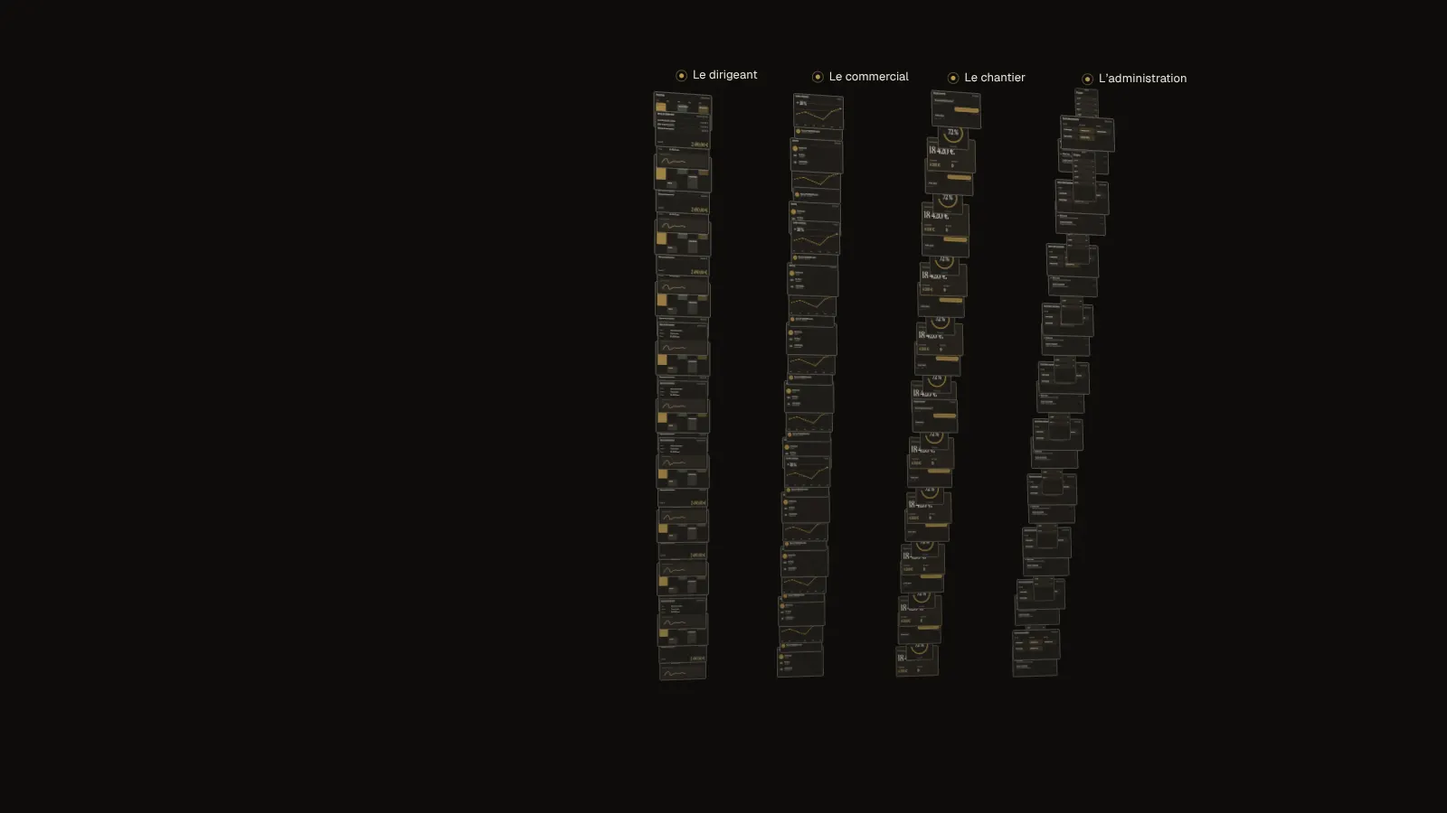
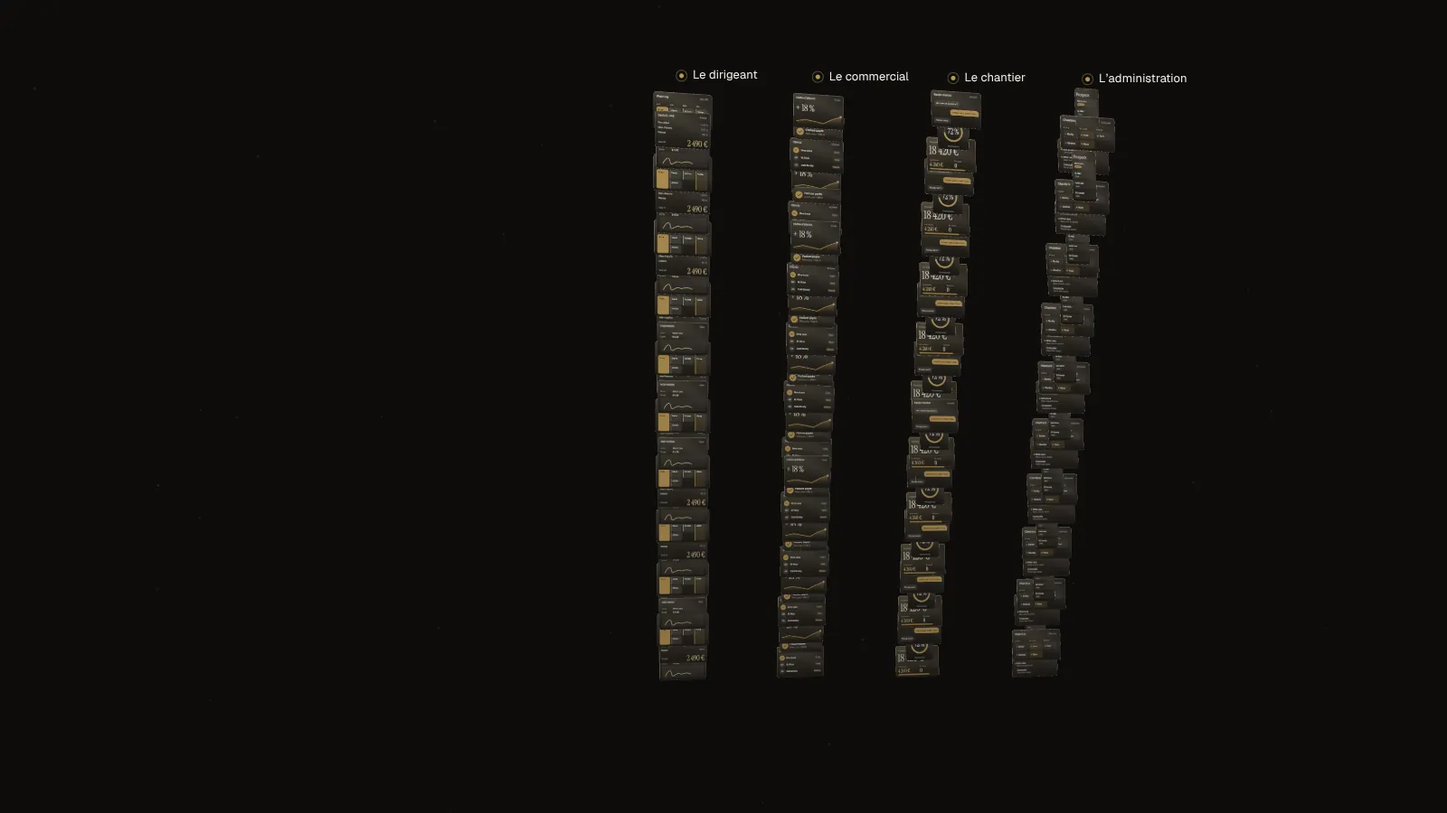
Les cartes de la scène 3D : lisibles, nettes et en matière
Le contenu est redessiné pour la taille réelle d'une carte à l'écran ;
la face se lit un demi-niveau de détail plus fin ; fond en dégradé, arête
éclairée, fine épaisseur et dos au monogramme JD ; éclairage selon
l'orientation, reflet discret, profondeur de champ, poussière d'or et
vignettage. Les images fixes sans 3D sont refaites.

Claude-Session: https://claude.ai/code/session_017eXCrDwx3fyc2Rg5fKE3AL

diff --git a/index.html b/index.html
@@ -87,6 +87,7 @@ img { display: block; max-width: 100%; height: auto; }
 
 /* ── Le monde en 3D, derrière toute la page ── */
 #monde { position: fixed; inset: 0; width: 100%; height: 100%; z-index: 0; display: block; transition: opacity 600ms ease; }
+#monde { -webkit-mask-image: radial-gradient(ellipse 85% 80% at 58% 50%, #000 55%, rgba(0,0,0,0.55) 100%); mask-image: radial-gradient(ellipse 85% 80% at 58% 50%, #000 55%, rgba(0,0,0,0.55) 100%); }
 .etiquettes { position: fixed; inset: 0; z-index: 1; pointer-events: none; }
 .etiquette {
   position: absolute; left: 0; top: 0; white-space: nowrap; font-size: 0.8125rem; font-weight: 400; letter-spacing: 0.01em;
@@ -336,7 +337,7 @@ main, .index-recit { position: relative; z-index: 2; }
 .pied-page { background: var(--nuit-2); padding: 0 var(--marge) 40px; display: flex; flex-wrap: wrap; justify-content: space-between; gap: 16px; font-size: 0.8125rem; color: var(--creme-doux); }
 .pied-page a { text-underline-offset: 0.25em; }
 
-.capture .barre, .capture main, .capture .index-recit, .capture .intro { display: none !important; }
+.capture .barre, .capture main, .capture .pied-page, .capture .index-recit, .capture .intro { display: none !important; }
 </style>
 </head>
 <body>
@@ -700,107 +701,200 @@ if (renderer) {
 
   /* Les fenêtres : sombres, au trait fin, avec de vrais contenus (un exemple fictif, jamais des barres grises) */
   await Promise.all([document.fonts.load('400 30px Geist'), document.fonts.load('500 30px Geist'), document.fonts.load('400 60px "Instrument Serif"')]).catch(() => {});
-  const C = { fond: '#23201b', fond2: '#312d26', trait: 'rgba(242,239,234,0.22)', texte: '#f3ede1', doux: 'rgba(242,239,234,0.66)', pale: 'rgba(242,239,234,0.4)', or: '#b8964f', orClair: '#d6bd85', vert: '#8fb08a' };
+  const C = { fondHaut: '#2f2b24', fondBas: '#1c1915', fond2: 'rgba(242,239,234,0.07)', fond3: 'rgba(242,239,234,0.12)', trait: 'rgba(242,239,234,0.13)', texte: '#f4f0e9', doux: 'rgba(242,239,234,0.64)', pale: 'rgba(242,239,234,0.4)', or: '#c4a05a', orClair: '#dcc48f', orFond: 'rgba(196,160,90,0.2)', vert: '#9fbf97', vertFond: 'rgba(159,191,151,0.17)', sombre: '#1a1713' };
   const F = (t, poids = 400) => `${poids} ${t}px Geist, system-ui, sans-serif`;
+  const SERIF = (t) => `400 ${t}px "Instrument Serif", Georgia, serif`;
+  const ANISO = renderer.capabilities.getMaxAnisotropy();
+  /* Un texte qui ne tient pas se coupe sur un « … », jamais par-dessus son voisin */
+  const ajuste = (g, txt, max) => { if (g.measureText(txt).width <= max) return txt; let s = txt; while (s.length > 1 && g.measureText(s + '…').width > max) s = s.slice(0, -1); return s.trimEnd() + '…'; };
+  const pilule = (g, x, y, txt, coul, fond, taille = 28, droite = false) => {
+    g.font = F(taille, 500); const w = g.measureText(txt).width + taille * 1.3, hh = taille * 1.75;
+    const x0 = droite ? x - w : x; g.fillStyle = fond; g.beginPath(); g.roundRect(x0, y - hh / 2, w, hh, hh / 2); g.fill();
+    g.fillStyle = coul; g.textBaseline = 'middle'; g.fillText(txt, x0 + taille * 0.65, y + 1); return w;
+  };
   function fenetre(l, h, titre, meta, dessin, opts = {}) {
-    const W = 1024, H = Math.round(1024 * h / l), r = opts.rayon ?? 34;
+    const W = 1024, H = Math.round(W * h / l), r = opts.rayon ?? 40;
     const c = document.createElement('canvas'); c.width = W; c.height = H;
     const g = c.getContext('2d');
-    g.beginPath(); g.roundRect(3, 3, W - 6, H - 6, r); g.fillStyle = opts.fond || C.fond; g.fill();
-    g.save(); g.clip();
+    /* Le dessin couvre la carte jusqu'à son bord exact : la géométrie découpe le contour, aucun pixel transparent ne la frange */
+    const forme = (m = 0, rr = r) => { g.beginPath(); g.roundRect(m, m, W - 2 * m, H - 2 * m, Math.max(0, rr - m)); };
+    /* Le fond : un dégradé de haut en bas, et une lueur chaude qui vient d'en haut à gauche */
+    const fd = g.createLinearGradient(0, 0, 0, H); fd.addColorStop(0, opts.fondHaut || C.fondHaut); fd.addColorStop(1, opts.fondBas || C.fondBas);
+    forme(); g.fillStyle = fd; g.fill();
+    g.save(); forme(); g.clip();
+    const lu = g.createRadialGradient(W * 0.12, -H * 0.1, 0, W * 0.12, -H * 0.1, Math.max(W, H) * 0.95);
+    lu.addColorStop(0, opts.lueur || 'rgba(220,196,143,0.13)'); lu.addColorStop(1, 'rgba(220,196,143,0)'); g.fillStyle = lu; g.fillRect(0, 0, W, H);
+    g.textBaseline = 'middle'; g.textAlign = 'left';
     if (titre) {
-      g.fillStyle = C.texte; g.font = F(34, 500); g.textBaseline = 'middle'; g.fillText(titre, 48, 62);
-      if (meta) { g.fillStyle = C.doux; g.font = F(28); g.textAlign = 'right'; g.fillText(meta, W - 48, 62); g.textAlign = 'left'; }
-      g.fillStyle = C.trait; g.fillRect(0, 112, W, 2);
+      g.fillStyle = C.texte; g.font = F(50, 500); g.fillText(titre, 56, 88);
+      if (meta) pilule(g, W - 56, 88, meta, C.doux, C.fond2, 34, true);
+      g.fillStyle = C.trait; g.fillRect(0, 164, W, 2);
     }
+    g.textBaseline = 'middle'; g.textAlign = 'left';
     dessin(g, W, H);
     g.restore();
-    g.lineWidth = 4; g.strokeStyle = opts.bord || 'rgba(242,239,234,0.42)'; g.beginPath(); g.roundRect(3, 3, W - 6, H - 6, r); g.stroke();
-    const t = new THREE.CanvasTexture(c); t.colorSpace = THREE.SRGBColorSpace; t.anisotropy = 8;
-    return { t, l, h };
+    /* L'arête : claire en haut, où elle prend la lumière, éteinte en bas ; un reflet fin juste dessous */
+    const ar = g.createLinearGradient(0, 0, 0, H); ar.addColorStop(0, opts.bordHaut || 'rgba(242,239,234,0.48)'); ar.addColorStop(0.5, opts.bordMilieu || 'rgba(242,239,234,0.22)'); ar.addColorStop(1, opts.bordBas || 'rgba(242,239,234,0.12)');
+    g.lineWidth = 5; g.strokeStyle = ar; forme(2.5); g.stroke();
+    const re = g.createLinearGradient(0, 0, 0, Math.min(H, 260)); re.addColorStop(0, 'rgba(255,255,255,0.07)'); re.addColorStop(1, 'rgba(255,255,255,0)');
+    g.save(); forme(); g.clip(); g.lineWidth = 2; g.strokeStyle = re; forme(7); g.stroke(); g.restore();
+    const t = new THREE.CanvasTexture(c); t.colorSpace = THREE.SRGBColorSpace; t.anisotropy = ANISO;
+    return { t, l, h, r };
   }
-  const pastille = (g, x, y, txt, coul, fond) => { g.font = F(26, 500); const w = g.measureText(txt).width + 36; g.fillStyle = fond; g.beginPath(); g.roundRect(x - w, y - 22, w, 44, 22); g.fill(); g.fillStyle = coul; g.textBaseline = 'middle'; g.fillText(txt, x - w + 18, y + 1); };
-  const ligne = (g, x, y, a, b, coulA = C.texte, coulB = C.doux) => { g.textBaseline = 'middle'; g.font = F(30); g.fillStyle = coulA; g.fillText(a, x, y); if (b) { g.font = F(24); g.fillStyle = coulB; g.fillText(b, x, y + 36); } };
 
   const modeles = [
-    fenetre(1.7, 1.06, 'Planning', 'Semaine 43', (g, W, H) => {
-      const jours = ['Lun.', 'Mar.', 'Mer.', 'Jeu.', 'Ven.']; const lc = (W - 96) / 5;
-      jours.forEach((j, k) => { g.fillStyle = C.doux; g.font = F(26); g.fillText(j, 48 + k * lc, 160); if (k) { g.fillStyle = C.trait; g.fillRect(48 + k * lc - 10, 190, 2, H - 230); } });
-      [[0, 0, 2, 'Pose cuisine Leca', C.or], [1, 2, 1, 'Atelier', 'rgba(242,239,234,0.14)'], [2, 0, 1, 'Livraison Roux', 'rgba(143,176,138,0.35)'], [3, 1, 2, 'Visite Borély', 'rgba(242,239,234,0.14)'], [4, 0, 1, 'Facturation', 'rgba(184,150,79,0.4)']].forEach(([k, y, d, txt, coul]) => {
-        g.fillStyle = coul; g.beginPath(); g.roundRect(48 + k * lc, 205 + y * 130, lc - 22, d * 120, 14); g.fill();
-        g.fillStyle = coul === C.or ? C.fond : C.texte; g.font = F(24, 500); g.fillText(txt.length > 14 ? txt.slice(0, 13) + '…' : txt, 62 + k * lc, 240 + y * 130);
+    fenetre(1.7, 1.06, 'Planning', 'Sem. 43', (g, W, H) => {
+      const jours = ['Lun.', 'Mar.', 'Mer.', 'Jeu.'], lc = (W - 112) / 4;
+      jours.forEach((j, k) => { g.fillStyle = k === 2 ? C.orClair : C.doux; g.font = F(36, k === 2 ? 500 : 400); g.fillText(j, 56 + k * lc, 222); if (k) { g.fillStyle = C.trait; g.fillRect(56 + k * lc - 12, 256, 2, H - 290); } });
+      [[0, 0, 2, 'Pose', 'or'], [1, 1, 1, 'Atelier', 'neutre'], [2, 0, 1, 'Achats', 'vert'], [3, 0, 2, 'Visite', 'orPale'], [1, 0, 1, 'Devis', 'neutre']].forEach(([k, y, d, txt, ton]) => {
+        const x = 56 + k * lc, yy = 270 + y * 172, w = lc - 26, hh = d * 172 - 18;
+        g.fillStyle = { or: C.or, neutre: C.fond3, vert: C.vertFond, orPale: C.orFond }[ton]; g.beginPath(); g.roundRect(x, yy, w, hh, 20); g.fill();
+        if (ton !== 'or') { g.fillStyle = ton === 'vert' ? C.vert : ton === 'orPale' ? C.or : C.pale; g.beginPath(); g.roundRect(x, yy, 9, hh, [20, 0, 0, 20]); g.fill(); }
+        g.fillStyle = ton === 'or' ? C.sombre : C.texte; g.font = F(38, 500); g.fillText(ajuste(g, txt, w - 44), x + 28, yy + 50);
       });
     }),
     fenetre(1.5, 1.0, 'Chiffre d’affaires', '6 mois', (g, W, H) => {
-      const v = [0.42, 0.55, 0.38, 0.22, 0.66, 0.84], x0 = 70, l = W - 140, y0 = H - 110, ht = H - 300;
-      for (let k = 0; k < 4; k++) { g.fillStyle = C.trait; g.fillRect(x0, y0 - k * ht / 3, l, 2); }
-      g.beginPath(); v.forEach((a, k) => { const x = x0 + k * l / 5, y = y0 - a * ht; k ? g.lineTo(x, y) : g.moveTo(x, y); }); g.strokeStyle = C.or; g.lineWidth = 6; g.lineJoin = 'round'; g.stroke();
-      v.forEach((a, k) => { g.fillStyle = k === 5 ? C.orClair : C.or; g.beginPath(); g.arc(x0 + k * l / 5, y0 - a * ht, k === 5 ? 13 : 8, 0, 7); g.fill(); g.fillStyle = C.doux; g.font = F(24); g.fillText(['mai', 'juin', 'juil.', 'août', 'sept.', 'oct.'][k], x0 + k * l / 5 - 22, y0 + 50); });
-      g.fillStyle = C.texte; g.font = '400 92px "Instrument Serif", Georgia, serif'; g.fillText('+ 18 %', 70, 200);
+      g.fillStyle = C.texte; g.font = SERIF(176); g.textBaseline = 'alphabetic'; g.fillText('+ 18 %', 50, 346); g.textBaseline = 'middle';
+      const v = [0.3, 0.48, 0.34, 0.18, 0.6, 0.9], x0 = 64, l = W - 128, y0 = H - 70, ht = H - 470;
+      const pt = (k) => [x0 + k * l / 5, y0 - v[k] * ht];
+      const aire = g.createLinearGradient(0, y0 - ht, 0, y0); aire.addColorStop(0, 'rgba(196,160,90,0.5)'); aire.addColorStop(1, 'rgba(196,160,90,0)');
+      g.beginPath(); g.moveTo(x0, y0); v.forEach((_, k) => g.lineTo(...pt(k))); g.lineTo(x0 + l, y0); g.closePath(); g.fillStyle = aire; g.fill();
+      g.beginPath(); v.forEach((_, k) => k ? g.lineTo(...pt(k)) : g.moveTo(...pt(k))); g.strokeStyle = C.or; g.lineWidth = 9; g.lineJoin = 'round'; g.lineCap = 'round'; g.stroke();
+      const [xd, yd] = pt(5); g.fillStyle = 'rgba(220,196,143,0.28)'; g.beginPath(); g.arc(xd, yd, 32, 0, 7); g.fill(); g.fillStyle = C.orClair; g.beginPath(); g.arc(xd, yd, 15, 0, 7); g.fill();
     }),
     fenetre(1.5, 1.05, 'Équipe chantier', '3 en ligne', (g, W, H) => {
-      const bulles = [[0, 'Qui a les cotes de la cuisine ?', 'Karim · 7 h 42'], [1, 'Dans le dossier Leca, onglet Plans.', 'Vous · 7 h 44'], [0, 'Trouvé, merci.', 'Karim · 7 h 46']];
-      bulles.forEach(([moi, t, m], k) => { g.font = F(28); const w = g.measureText(t).width + 56; const x = moi ? W - 48 - w : 48, y = 160 + k * 150; g.fillStyle = moi ? 'rgba(184,150,79,0.9)' : C.fond2; g.beginPath(); g.roundRect(x, y, w, 76, 30); g.fill(); g.fillStyle = moi ? C.fond : C.texte; g.textBaseline = 'middle'; g.fillText(t, x + 28, y + 38); g.fillStyle = C.pale; g.font = F(22); g.fillText(m, moi ? x + w - g.measureText(m).width : x + 6, y + 104); });
+      [[0, 'Les cotes de la cuisine ?'], [1, 'Dossier Leca, onglet Plans.'], [0, 'Trouvé, merci !']].forEach(([moi, t], k) => {
+        g.font = F(40, moi ? 500 : 400); const w = Math.min(W - 150, g.measureText(t).width + 76), x = moi ? W - 56 - w : 56, y = 196 + k * 168;
+        g.fillStyle = moi ? C.or : C.fond3; g.beginPath(); g.roundRect(x, y, w, 112, [44, 44, moi ? 10 : 44, moi ? 44 : 10]); g.fill();
+        g.fillStyle = moi ? C.sombre : C.texte; g.fillText(ajuste(g, t, w - 76), x + 38, y + 58);
+      });
     }),
     fenetre(0.74, 1.5, null, null, (g, W, H) => {
-      g.fillStyle = C.pale; g.beginPath(); g.roundRect(W / 2 - 90, 40, 180, 40, 20); g.fill();
-      g.fillStyle = C.texte; g.font = '400 92px "Instrument Serif", Georgia, serif'; g.fillText('Prospects', 64, 220);
-      [['Martin SARL', 'Marseille 8e', 'Relancer', C.or], ['M. Roux', 'Aubagne', 'Signé', C.vert], ['Mme Leca', 'Cassis', 'Posé', C.vert], ['Café Borély', 'Marseille 8e', 'Jeudi', C.orClair], ['SCI Goudes', 'Marseille 8e', 'Devis', C.orClair]].forEach(([n, v, s, c], k) => {
-        const y = 330 + k * 230; g.fillStyle = C.fond2; g.beginPath(); g.roundRect(48, y, W - 96, 190, 28); g.fill(); ligne(g, 88, y + 70, n, v); g.font = F(26, 500); g.fillStyle = c; g.textAlign = 'right'; g.fillText(s, W - 90, y + 70); g.textAlign = 'left';
+      g.fillStyle = C.fond3; g.beginPath(); g.roundRect(W / 2 - 120, 48, 240, 52, 26); g.fill();
+      g.fillStyle = C.texte; g.font = SERIF(176); g.textBaseline = 'alphabetic'; g.fillText('Prospects', 60, 330); g.textBaseline = 'middle';
+      [['Martin SARL', 'Relancer', C.sombre, C.or], ['M. Roux', 'Signé', C.vert, C.vertFond], ['Café Borély', 'Jeudi', C.orClair, C.orFond], ['SCI Goudes', 'Devis', C.orClair, C.orFond]].forEach(([n, s, c, f], k) => {
+        const y = 430 + k * 400; g.fillStyle = C.fond2; g.beginPath(); g.roundRect(48, y, W - 96, 350, 44); g.fill();
+        g.fillStyle = C.texte; g.font = F(70, 500); g.fillText(ajuste(g, n, W - 200), 104, y + 112);
+        pilule(g, 104, y + 240, s, c, f, 54);
       });
-    }, { rayon: 90 }),
-    fenetre(1.6, 1.05, 'Devis D-2026-042', 'SCI Les Goudes', (g, W, H) => {
-      [['Fournitures, plan chêne', '1 140,00'], ['Main-d’œuvre, 2 jours', '1 170,00'], ['Dépose et évacuation', '180,00']].forEach(([a, b], k) => { const y = 180 + k * 74; g.font = F(30); g.fillStyle = C.texte; g.fillText(a, 48, y); g.textAlign = 'right'; g.fillStyle = C.doux; g.fillText(b + ' €', W - 48, y); g.textAlign = 'left'; g.fillStyle = C.trait; g.fillRect(48, y + 36, W - 96, 2); });
-      g.fillStyle = C.doux; g.font = F(28); g.fillText('Total HT', 48, H - 90); g.textAlign = 'right'; g.fillStyle = C.orClair; g.font = '400 84px "Instrument Serif", Georgia, serif'; g.fillText('2 490,00 €', W - 48, H - 80); g.textAlign = 'left';
+    }, { rayon: 110 }),
+    fenetre(1.6, 1.05, 'Devis D-042', 'Envoyé', (g, W, H) => {
+      [['Plan chêne', '1 140 €'], ['Main-d’œuvre', '1 170 €'], ['Dépose', '180 €']].forEach(([a, b], k) => {
+        const y = 222 + k * 90; g.font = F(40); g.fillStyle = C.texte; g.fillText(a, 56, y); g.textAlign = 'right'; g.fillStyle = C.doux; g.fillText(b, W - 56, y); g.textAlign = 'left';
+        g.fillStyle = C.trait; g.fillRect(56, y + 45, W - 112, 2);
+      });
+      g.fillStyle = C.doux; g.font = F(38); g.fillText('Total HT', 56, H - 90);
+      g.textAlign = 'right'; g.fillStyle = C.orClair; g.font = SERIF(150); g.textBaseline = 'alphabetic'; g.fillText('2 490 €', W - 56, H - 46); g.textAlign = 'left'; g.textBaseline = 'middle';
     }),
     fenetre(1.45, 0.46, null, null, (g, W, H) => {
-      g.fillStyle = C.or; g.beginPath(); g.arc(90, H / 2, 40, 0, 7); g.fill();
-      g.strokeStyle = C.fond; g.lineWidth = 8; g.beginPath(); g.moveTo(70, H / 2); g.lineTo(86, H / 2 + 16); g.lineTo(112, H / 2 - 14); g.stroke();
-      ligne(g, 160, H / 2 - 18, 'Facture F-2026-087 payée', 'Mme Leca · 1 980,00 €');
-    }, { rayon: 60 }),
+      g.fillStyle = C.or; g.beginPath(); g.arc(130, H / 2, 74, 0, 7); g.fill();
+      g.strokeStyle = C.sombre; g.lineWidth = 13; g.lineCap = 'round'; g.lineJoin = 'round'; g.beginPath(); g.moveTo(96, H / 2 + 2); g.lineTo(121, H / 2 + 27); g.lineTo(166, H / 2 - 24); g.stroke();
+      g.fillStyle = C.texte; g.font = F(56, 500); g.fillText('Facture payée', 246, H / 2 - 34);
+      g.fillStyle = C.doux; g.font = F(44); g.fillText('Mme Leca · 1 980 €', 246, H / 2 + 40);
+    }, { rayon: 80 }),
     fenetre(0.95, 0.95, null, null, (g, W, H) => {
-      const cx = W / 2, cy = H / 2 - 20, r = 300;
-      g.lineWidth = 26; g.strokeStyle = C.fond2; g.beginPath(); g.arc(cx, cy, r, 0, 7); g.stroke();
-      g.strokeStyle = C.or; g.lineCap = 'round'; g.beginPath(); g.arc(cx, cy, r, -Math.PI / 2, -Math.PI / 2 + Math.PI * 2 * 0.72); g.stroke();
-      g.fillStyle = C.texte; g.textAlign = 'center'; g.font = '400 210px "Instrument Serif", Georgia, serif'; g.textBaseline = 'middle'; g.fillText('72 %', cx, cy);
-      g.font = F(30); g.fillStyle = C.doux; g.fillText('Planning rempli', cx, H - 90); g.textAlign = 'left';
-    }, { rayon: 60 }),
-    fenetre(1.7, 1.0, 'Suivi des chantiers', '6 en cours', (g, W, H) => {
-      const cols = ['À faire', 'En cours', 'Terminé'], lc = (W - 96) / 3;
-      cols.forEach((t, k) => { g.fillStyle = C.doux; g.font = F(26); g.fillText(t, 48 + k * lc, 160); });
-      [[0, 0, 'Café Borély'], [0, 1, 'SCI Goudes'], [1, 0, 'Cuisine Leca'], [1, 1, 'Escalier Roux'], [2, 0, 'Dressing Ferri']].forEach(([k, y, t]) => {
-        g.fillStyle = k === 1 ? 'rgba(184,150,79,0.22)' : C.fond2; g.beginPath(); g.roundRect(48 + k * lc, 200 + y * 120, lc - 24, 100, 18); g.fill();
-        g.fillStyle = C.texte; g.font = F(26, 500); g.fillText(t, 70 + k * lc, 252 + y * 120);
+      const cx = W / 2, cy = H / 2 - 44, r = 290;
+      g.lineWidth = 46; g.strokeStyle = C.fond3; g.beginPath(); g.arc(cx, cy, r, 0, 7); g.stroke();
+      const an = g.createLinearGradient(cx - r, cy - r, cx + r, cy + r); an.addColorStop(0, C.orClair); an.addColorStop(1, C.or);
+      g.strokeStyle = an; g.lineCap = 'round'; g.beginPath(); g.arc(cx, cy, r, -Math.PI / 2, -Math.PI / 2 + Math.PI * 2 * 0.72); g.stroke();
+      g.fillStyle = C.texte; g.textAlign = 'center'; g.font = SERIF(240); g.fillText('72 %', cx, cy + 8);
+      g.font = F(52); g.fillStyle = C.doux; g.fillText('Planning rempli', cx, H - 92); g.textAlign = 'left';
+    }, { rayon: 80 }),
+    fenetre(1.7, 1.0, 'Chantiers', '5 en cours', (g, W, H) => {
+      const cols = ['À faire', 'En cours', 'Terminé'], lc = (W - 112) / 3;
+      cols.forEach((t, k) => { g.fillStyle = C.doux; g.font = F(36); g.fillText(t, 56 + k * lc, 222); });
+      [[0, 0, 'Borély'], [0, 1, 'Goudes'], [1, 0, 'Leca'], [1, 1, 'Roux'], [2, 0, 'Ferri']].forEach(([k, y, t]) => {
+        const x = 56 + k * lc, yy = 262 + y * 158, w = lc - 26;
+        g.fillStyle = k === 1 ? C.orFond : C.fond2; g.beginPath(); g.roundRect(x, yy, w, 136, 24); g.fill();
+        g.fillStyle = [C.pale, C.or, C.vert][k]; g.beginPath(); g.arc(x + 40, yy + 68, 12, 0, 7); g.fill();
+        g.fillStyle = C.texte; g.font = F(40, 500); g.fillText(ajuste(g, t, w - 96), x + 72, yy + 70);
       });
     }),
-    fenetre(1.55, 1.0, 'Bon d’intervention', 'Chantier Leca', (g, W, H) => {
-      [['Client', 'Mme Leca, Cassis'], ['Travaux', 'Pose cuisine'], ['Temps', '6 h 30, 2 pers.']].forEach(([a, b], k) => { g.font = F(24); g.fillStyle = C.doux; g.fillText(a, 48, 172 + k * 62); g.font = F(28); g.fillStyle = C.texte; g.fillText(b, 260, 172 + k * 62); });
-      g.fillStyle = C.fond2; g.beginPath(); g.roundRect(48, 360, W - 96, H - 410, 20); g.fill();
-      g.strokeStyle = C.orClair; g.lineWidth = 5; g.lineCap = 'round'; g.beginPath(); g.moveTo(110, H - 110); g.bezierCurveTo(170, H - 210, 220, H - 210, 230, H - 120); g.bezierCurveTo(250, H - 70, 320, H - 170, 380, H - 140); g.bezierCurveTo(430, H - 110, 470, H - 180, 560, H - 130); g.stroke();
-      g.fillStyle = C.pale; g.font = F(22); g.fillText('Signature du client', 76, 395);
+    fenetre(1.55, 1.0, 'Intervention', 'Signé', (g, W, H) => {
+      [['Client', 'Mme Leca'], ['Durée', '6 h 30']].forEach(([a, b], k) => { const y = 226 + k * 76; g.font = F(38); g.fillStyle = C.doux; g.fillText(a, 56, y); g.font = F(42, 500); g.fillStyle = C.texte; g.fillText(b, 300, y); });
+      g.fillStyle = C.fond2; g.beginPath(); g.roundRect(56, 352, W - 112, H - 400, 28); g.fill();
+      g.strokeStyle = C.orClair; g.lineWidth = 9; g.lineCap = 'round'; g.beginPath(); g.moveTo(130, H - 92); g.bezierCurveTo(200, H - 230, 260, H - 230, 272, H - 110); g.bezierCurveTo(296, H - 46, 380, H - 170, 450, H - 134); g.bezierCurveTo(510, H - 100, 560, H - 186, 690, H - 120); g.stroke();
     }),
     fenetre(1.6, 1.0, 'Clients', '42 fiches', (g, W, H) => {
-      [['ML', 'Mme Leca', 'Cassis'], ['MR', 'M. Roux', 'Aubagne'], ['CB', 'Café Borély', 'Marseille 8e']].forEach(([i, n, v], k) => {
-        const y = 190 + k * 130; g.fillStyle = k === 0 ? C.or : C.fond2; g.beginPath(); g.arc(96, y + 18, 44, 0, 7); g.fill();
-        g.fillStyle = k === 0 ? C.fond : C.texte; g.font = F(28, 500); g.textAlign = 'center'; g.textBaseline = 'middle'; g.fillText(i, 96, y + 19); g.textAlign = 'left';
-        ligne(g, 170, y, n, v);
+      [['ML', 'Mme Leca', 'À jour'], ['MR', 'M. Roux', 'Devis'], ['CB', 'Café Borély', 'Relance']].forEach(([i, n, s], k) => {
+        const y = 236 + k * 140; g.fillStyle = k === 0 ? C.or : C.fond3; g.beginPath(); g.arc(116, y, 54, 0, 7); g.fill();
+        g.fillStyle = k === 0 ? C.sombre : C.texte; g.font = F(36, 500); g.textAlign = 'center'; g.fillText(i, 116, y + 1); g.textAlign = 'left';
+        g.fillStyle = C.texte; g.font = F(44, 500); g.fillText(n, 206, y);
+        pilule(g, W - 56, y, s, k === 0 ? C.vert : C.orClair, k === 0 ? C.vertFond : C.orFond, 34, true);
+        if (k < 2) { g.fillStyle = C.trait; g.fillRect(56, y + 70, W - 112, 2); }
       });
     }),
     fenetre(1.5, 1.0, null, null, (g, W, H) => {
-      g.fillStyle = C.doux; g.font = F(28); g.fillText('Encaissé en octobre', 56, 110);
-      g.fillStyle = C.texte; g.font = '400 190px "Instrument Serif", Georgia, serif'; g.textBaseline = 'alphabetic'; g.fillText('18 420 €', 50, 330);
-      g.fillStyle = C.trait; g.fillRect(56, 400, W - 112, 2);
-      g.textBaseline = 'middle'; g.font = F(28); g.fillStyle = C.doux; g.fillText('À encaisser', 56, 470); g.fillText('En retard', W / 2, 470);
-      g.fillStyle = C.orClair; g.font = '400 84px "Instrument Serif", Georgia, serif'; g.fillText('4 260 €', 56, 560); g.fillStyle = C.texte; g.fillText('0', W / 2, 560);
-    }, { fond: '#2a261f', bord: 'rgba(214,189,133,0.8)' }),
-    fenetre(1.6, 1.0, 'Messagerie', '3 non lus', (g, W, H) => {
-      [['Bois du Midi', 'Commande 4471 expédiée', '9 h 12'], ['Mme Leca', 'Merci pour la pose, tout est parfait.', '8 h 40'], ['Expert-comptable', 'Pièces d’octobre bien reçues.', 'Hier']].forEach(([a, b, h], k) => {
-        const y = 175 + k * 120; if (k < 2) { g.fillStyle = C.or; g.beginPath(); g.arc(62, y, 9, 0, 7); g.fill(); }
-        ligne(g, 92, y, a, b); g.font = F(24); g.fillStyle = C.pale; g.textAlign = 'right'; g.fillText(h, W - 48, y); g.textAlign = 'left';
+      g.fillStyle = C.doux; g.font = F(40); g.fillText('Encaissé en octobre', 60, 104);
+      g.fillStyle = C.texte; g.font = SERIF(220); g.textBaseline = 'alphabetic'; g.fillText('18 420 €', 50, 340); g.textBaseline = 'middle';
+      g.fillStyle = C.trait; g.fillRect(60, 398, W - 120, 2);
+      g.font = F(36); g.fillStyle = C.doux; g.fillText('À encaisser', 60, 462); g.fillText('En retard', W * 0.56, 462);
+      g.font = SERIF(110); g.textBaseline = 'alphabetic'; g.fillStyle = C.orClair; g.fillText('4 260 €', 56, 586); g.fillStyle = C.texte; g.fillText('0', W * 0.56, 586); g.textBaseline = 'middle';
+      g.fillStyle = C.fond3; g.beginPath(); g.roundRect(60, H - 58, W - 120, 18, 9); g.fill();
+      g.fillStyle = C.or; g.beginPath(); g.roundRect(60, H - 58, (W - 120) * 0.81, 18, 9); g.fill();
+    }, { fondHaut: '#362f24', fondBas: '#201c16', bordHaut: 'rgba(220,196,143,0.95)', bordMilieu: 'rgba(196,160,90,0.55)', bordBas: 'rgba(196,160,90,0.32)', lueur: 'rgba(220,196,143,0.22)' }),
+    fenetre(1.6, 1.0, 'Messages', '2 non lus', (g, W, H) => {
+      [['Bois du Midi', 'Commande expédiée', 1], ['Mme Leca', 'Merci, tout est parfait.', 1], ['Comptable', 'Pièces bien reçues.', 0]].forEach(([a, b, nl], k) => {
+        const y = 236 + k * 142;
+        if (nl) { g.fillStyle = C.or; g.beginPath(); g.arc(74, y - 24, 12, 0, 7); g.fill(); }
+        g.fillStyle = C.texte; g.font = F(42, nl ? 500 : 400); g.fillText(a, 104, y - 24);
+        g.fillStyle = C.doux; g.font = F(36); g.fillText(ajuste(g, b, W - 170), 104, y + 28);
+        if (k < 2) { g.fillStyle = C.trait; g.fillRect(56, y + 72, W - 112, 2); }
       });
     }),
   ];
 
+  /* La matière d'une carte. Sa face se lit un demi-niveau de détail plus fin que ce que la carte graphique choisirait
+     (le texte reste net en se réduisant), sauf loin du point de netteté, où elle s'adoucit comme dans une profondeur de
+     champ ; un reflet glisse sur la surface quand la carte tourne. */
+  const matiereFace = (mat) => {
+    mat.userData.u = { uFlou: { value: 0 }, uReflet: { value: 0 }, uBande: { value: 0 } };
+    mat.onBeforeCompile = (sh) => {
+      Object.assign(sh.uniforms, mat.userData.u);
+      sh.fragmentShader = 'uniform float uFlou;\nuniform float uReflet;\nuniform float uBande;\n' + sh.fragmentShader.replace('#include <map_fragment>', [
+        '#ifdef USE_MAP',
+        '  vec4 echantillon = texture2D( map, vMapUv, mix( -0.65, 1.8, uFlou ) );',
+        '  diffuseColor *= echantillon;',
+        '  float ecart = vMapUv.x * 0.7 + vMapUv.y - uBande;',
+        '  diffuseColor.rgb += vec3( 1.0, 0.92, 0.78 ) * exp( -ecart * ecart * 14.0 ) * uReflet * echantillon.a;',
+        '#endif'].join('\n'));
+    };
+    mat.customProgramCacheKey = () => 'carte-face';
+  };
+  /* Une lumière douce vient d'en haut à gauche : une carte qui s'en détourne s'assombrit, et le volume se lit */
+  const LUMIERE = new THREE.Vector3(-0.35, 0.55, 0.76).normalize(), normale = new THREE.Vector3(), versCamera = new THREE.Vector3();
+  const EPAISSEUR = 0.007;
+  /* Le contour arrondi d'une carte, au rayon même de son dessin : le bord est une vraie arête, nette, pas un détourage */
+  const contour = (l, h, r) => {
+    const s = new THREE.Shape(), x = -l / 2, y = -h / 2;
+    s.moveTo(x + r, y); s.lineTo(x + l - r, y); s.absarc(x + l - r, y + r, r, -Math.PI / 2, 0);
+    s.lineTo(x + l, y + h - r); s.absarc(x + l - r, y + h - r, r, 0, Math.PI / 2);
+    s.lineTo(x + r, y + h); s.absarc(x + r, y + h - r, r, Math.PI / 2, Math.PI);
+    s.lineTo(x, y + r); s.absarc(x + r, y + r, r, Math.PI, Math.PI * 1.5);
+    return s;
+  };
+  const versUv = (geo, l, h) => { const p = geo.attributes.position, uv = geo.attributes.uv; for (let k = 0; k < p.count; k++) uv.setXY(k, (p.getX(k) + l / 2) / l, (p.getY(k) + h / 2) / h); };
+  /* Le dos : sombre, avec le monogramme JD au centre */
+  const texDos = (l, h, r) => {
+    const W = 512, H = Math.round(W * h / l), c = document.createElement('canvas'); c.width = W; c.height = H; const g = c.getContext('2d');
+    const fd = g.createLinearGradient(0, 0, W, H); fd.addColorStop(0, '#2a251e'); fd.addColorStop(1, '#16130f'); g.fillStyle = fd; g.fillRect(0, 0, W, H);
+    const m = Math.min(W, H) * 0.16; g.strokeStyle = 'rgba(214,189,133,0.42)'; g.lineWidth = 2.5; g.beginPath(); g.arc(W / 2, H / 2, m, 0, 7); g.stroke();
+    g.fillStyle = 'rgba(214,189,133,0.5)'; g.font = `400 ${Math.round(m * 0.95)}px "Instrument Serif", Georgia, serif`; g.textAlign = 'center'; g.textBaseline = 'middle'; g.fillText('JD', W / 2, H / 2 + m * 0.06);
+    const t = new THREE.CanvasTexture(c); t.colorSpace = THREE.SRGBColorSpace; t.anisotropy = ANISO; return t;
+  };
+  /* Chaque modèle prépare une fois sa face, son dos et sa tranche ; les cartes les partagent */
+  const formes = modeles.map((mod) => {
+    const r = mod.r * mod.l / 1024, s = contour(mod.l, mod.h, r);
+    const face = new THREE.ShapeGeometry(s, 10); versUv(face, mod.l, mod.h);
+    const dos = face.clone(); dos.rotateY(Math.PI); dos.translate(0, 0, -EPAISSEUR);
+    const pts = s.getPoints(10), sommets = [];
+    for (let k = 0; k < pts.length; k++) {
+      const a = pts[k], b = pts[(k + 1) % pts.length];
+      sommets.push(a.x, a.y, 0, b.x, b.y, 0, b.x, b.y, -EPAISSEUR, a.x, a.y, 0, b.x, b.y, -EPAISSEUR, a.x, a.y, -EPAISSEUR);
+    }
+    const tranche = new THREE.BufferGeometry(); tranche.setAttribute('position', new THREE.Float32BufferAttribute(sommets, 3));
+    return { face, dos, tranche, texDos: texDos(mod.l, mod.h) };
+  });
   const N = mobile ? 64 : 120;
   const panneaux = [];
   const alea = (() => { let s = 7; return () => { s = (s * 16807) % 2147483647; return (s - 1) / 2147483646; }; })();
@@ -809,14 +903,32 @@ if (renderer) {
   const ECART = mobile ? 1.5 : 2.4, PAS = mobile ? 0.3 : 0.36, RAYON = mobile ? 2.5 : 4.0, R_ANNEAU = mobile ? 2.6 : 4.5;
 
   for (let i = 0; i < N; i++) {
-    const mod = modeles[i % modeles.length];
-    const mat = new THREE.MeshBasicMaterial({ map: mod.t, transparent: true, side: THREE.DoubleSide, opacity: 1, fog: true });
-    const m = new THREE.Mesh(new THREE.PlaneGeometry(mod.l, mod.h), mat);
+    const k = i % modeles.length, mod = modeles[k], fo = formes[k];
+    const matFace = new THREE.MeshBasicMaterial({ map: mod.t, transparent: true, opacity: 1, fog: true });
+    matiereFace(matFace);
+    const matDos = new THREE.MeshBasicMaterial({ map: fo.texDos, transparent: true, opacity: 1, fog: true });
+    const matTranche = new THREE.MeshBasicMaterial({ color: 0x4a4134, transparent: true, opacity: 1, fog: true, side: THREE.DoubleSide });
+    const m = new THREE.Group();
+    m.add(new THREE.Mesh(fo.face, matFace), new THREE.Mesh(fo.dos, matDos), new THREE.Mesh(fo.tranche, matTranche));
     scene.add(m);
-    panneaux.push({ m, mod, phase: alea() * Math.PI * 2, vitesse: 0.3 + alea() * 0.5, etats: [], retard: alea() * 0.5,
+    panneaux.push({ m, mod, mats: [matFace, matDos, matTranche], face: matFace, tranche: matTranche, phase: alea() * Math.PI * 2, vitesse: 0.3 + alea() * 0.5, etats: [], retard: alea() * 0.5,
       tourbillon: new THREE.Quaternion().setFromEuler(new THREE.Euler((alea() - 0.5) * 6, (alea() - 0.5) * 6, (alea() - 0.5) * 6)),
       depart: new THREE.Vector3((alea() - 0.5) * 0.6, (alea() - 0.5) * 0.4, 4 + alea() * 2) });
   }
+
+  /* Une poussière d'or en suspension, à peine visible, qui donne de la profondeur au vide */
+  const poussiere = (() => {
+    /* Sa propre suite de tirages : la disposition des cartes ne bouge pas */
+    const alea = (() => { let s = 11; return () => { s = (s * 16807) % 2147483647; return (s - 1) / 2147483646; }; })();
+    const n = mobile ? 110 : 260, pos = new Float32Array(n * 3);
+    for (let k = 0; k < n; k++) { pos[k * 3] = (alea() - 0.5) * 34; pos[k * 3 + 1] = (alea() - 0.5) * 22; pos[k * 3 + 2] = -16 + alea() * 24; }
+    const geo = new THREE.BufferGeometry(); geo.setAttribute('position', new THREE.BufferAttribute(pos, 3));
+    const c = document.createElement('canvas'); c.width = c.height = 64; const g = c.getContext('2d');
+    const rg = g.createRadialGradient(32, 32, 0, 32, 32, 32); rg.addColorStop(0, 'rgba(236,214,160,1)'); rg.addColorStop(0.35, 'rgba(214,189,133,0.45)'); rg.addColorStop(1, 'rgba(214,189,133,0)'); g.fillStyle = rg; g.fillRect(0, 0, 64, 64);
+    const tex = new THREE.CanvasTexture(c); tex.colorSpace = THREE.SRGBColorSpace;
+    const pts = new THREE.Points(geo, new THREE.PointsMaterial({ map: tex, size: mobile ? 0.09 : 0.075, sizeAttenuation: true, transparent: true, opacity: 0.55, depthWrite: false, blending: THREE.AdditiveBlending, fog: true }));
+    scene.add(pts); return pts;
+  })();
 
   /* Cinq états : désordre, colonnes par métier, outils reliés, un seul écran, l'anneau */
   const q = (x, y, z) => new THREE.Quaternion().setFromEuler(new THREE.Euler(x, y, z));
@@ -970,7 +1082,15 @@ if (renderer) {
       p.m.quaternion.copy(tmpQ);
       if (a === 0 && t < 0.6) p.m.rotateY(Math.sin(horloge * 0.2 + p.phase) * 0.25 * (1 - t) * calmeIci);
       p.m.scale.setScalar(A.s + (B.s - A.s) * t);
-      p.m.material.opacity = (A.o ?? 1) + ((B.o ?? 1) - (A.o ?? 1)) * t;
+      let opacite = (A.o ?? 1) + ((B.o ?? 1) - (A.o ?? 1)) * t;
+      normale.set(0, 0, 1).applyQuaternion(p.m.quaternion);
+      const eclairage = 0.6 + 0.5 * Math.abs(normale.dot(LUMIERE));
+      p.mats[0].color.setScalar(eclairage); p.mats[1].color.setScalar(eclairage * 0.9); p.tranche.color.setScalar(0.45 + 0.4 * Math.abs(normale.dot(LUMIERE)));
+      versCamera.copy(camera.position).sub(p.m.position); const distance = versCamera.length();
+      const u = p.face.userData.u;
+      u.uFlou.value = capture ? 0 : Math.min(1, Math.max(0, (distance - 24) / 14, (11 - distance) / 6));
+      u.uBande.value = 0.85 + normale.x * 2.2 - normale.y * 1.6 + Math.sin(horloge * 0.15 + p.phase) * 0.25 * calmeIci;
+      u.uReflet.value = 0.012 + 0.012 * Math.max(0, normale.dot(LUMIERE));
       if (entree < 0.999) {
         const local = Math.min(1, Math.max(0, (entree - p.retard) / 0.5));
         const k = 1 - Math.pow(1 - local, 3);
@@ -978,8 +1098,9 @@ if (renderer) {
         p.m.position.lerp(tmpP, 1 - k);
         tmpQ.copy(p.m.quaternion); p.m.quaternion.copy(p.tourbillon).slerp(tmpQ, k);
         p.m.scale.multiplyScalar(Math.max(0.001, k));
-        p.m.material.opacity *= Math.min(1, local * 2.5);
+        opacite *= Math.min(1, local * 2.5);
       }
+      for (const mt of p.mats) mt.opacity = opacite;
     }
     const poids = (k) => Math.max(0, 1 - Math.abs(s - k) * 1.6);
     fils.material.opacity = poids(2) * 0.85;
@@ -987,6 +1108,7 @@ if (renderer) {
     anneau.material.opacity = Math.max(0, Math.min(1, (s - 3.3) / 0.7));
     cadre.material.opacity = poids(3);
     anneau.rotation.z = horloge * 0.05 * calmeIci;
+    poussiere.rotation.y = horloge * 0.012 * calmeIci; poussiere.position.y = Math.sin(horloge * 0.1) * 0.3 * calmeIci;
 
     regard.lerp(pointeur, 0.04);
     camera.position.x = regard.x * (mobile ? 0.4 : 1.4);
